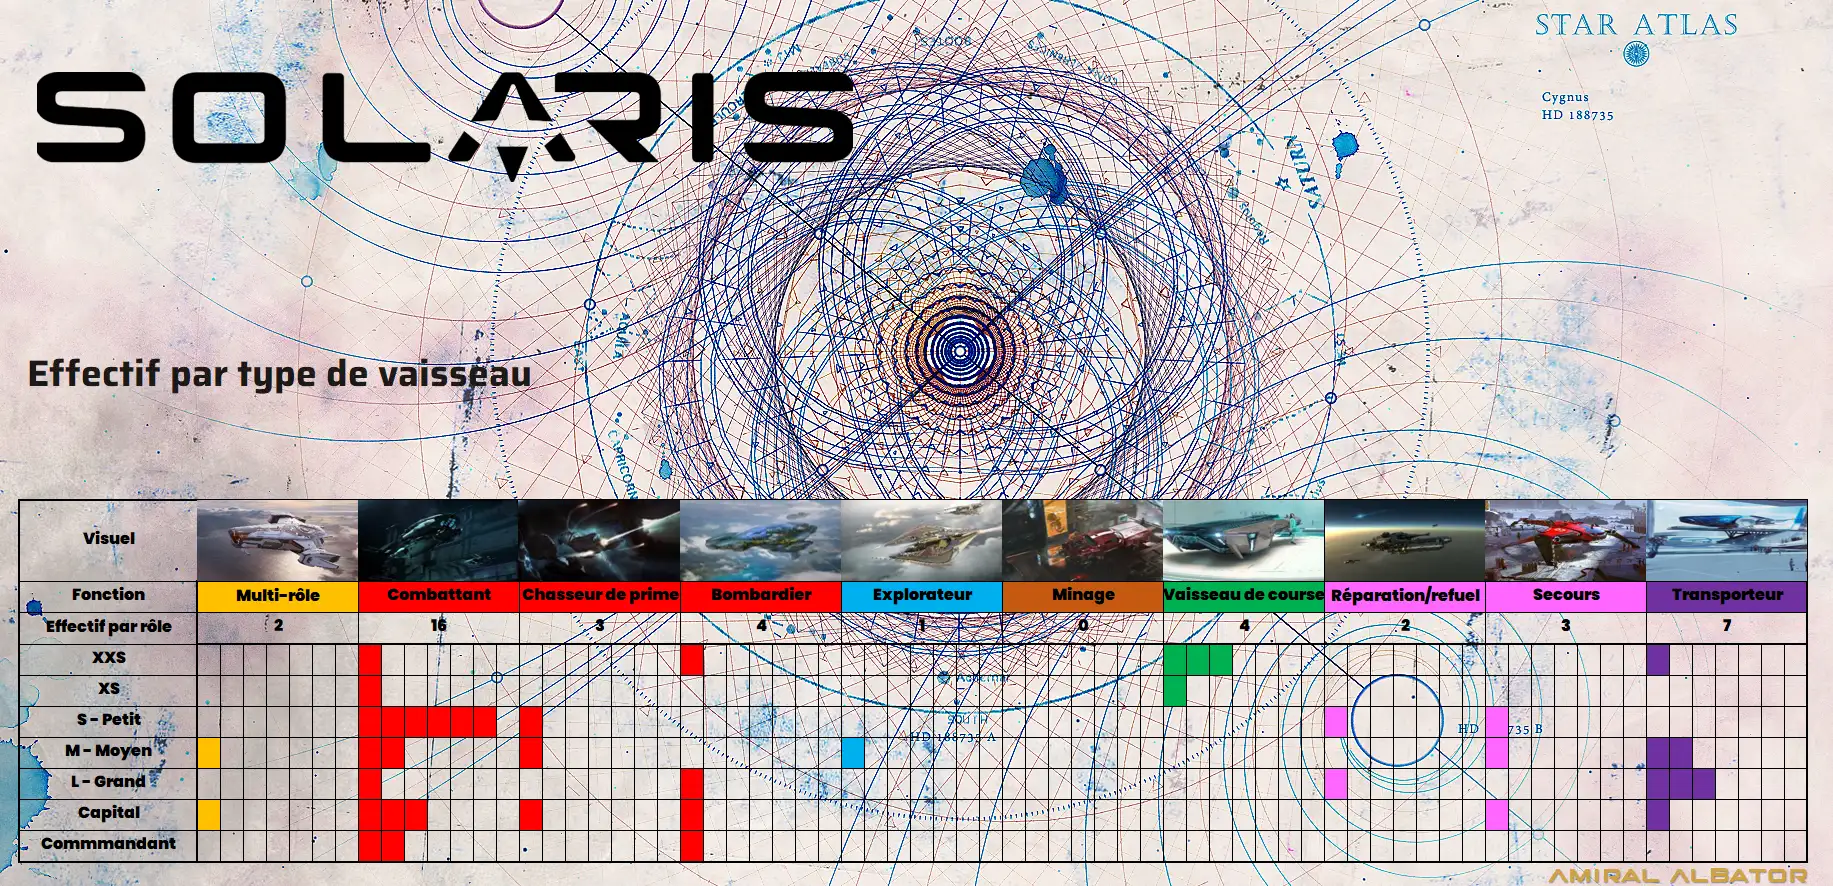
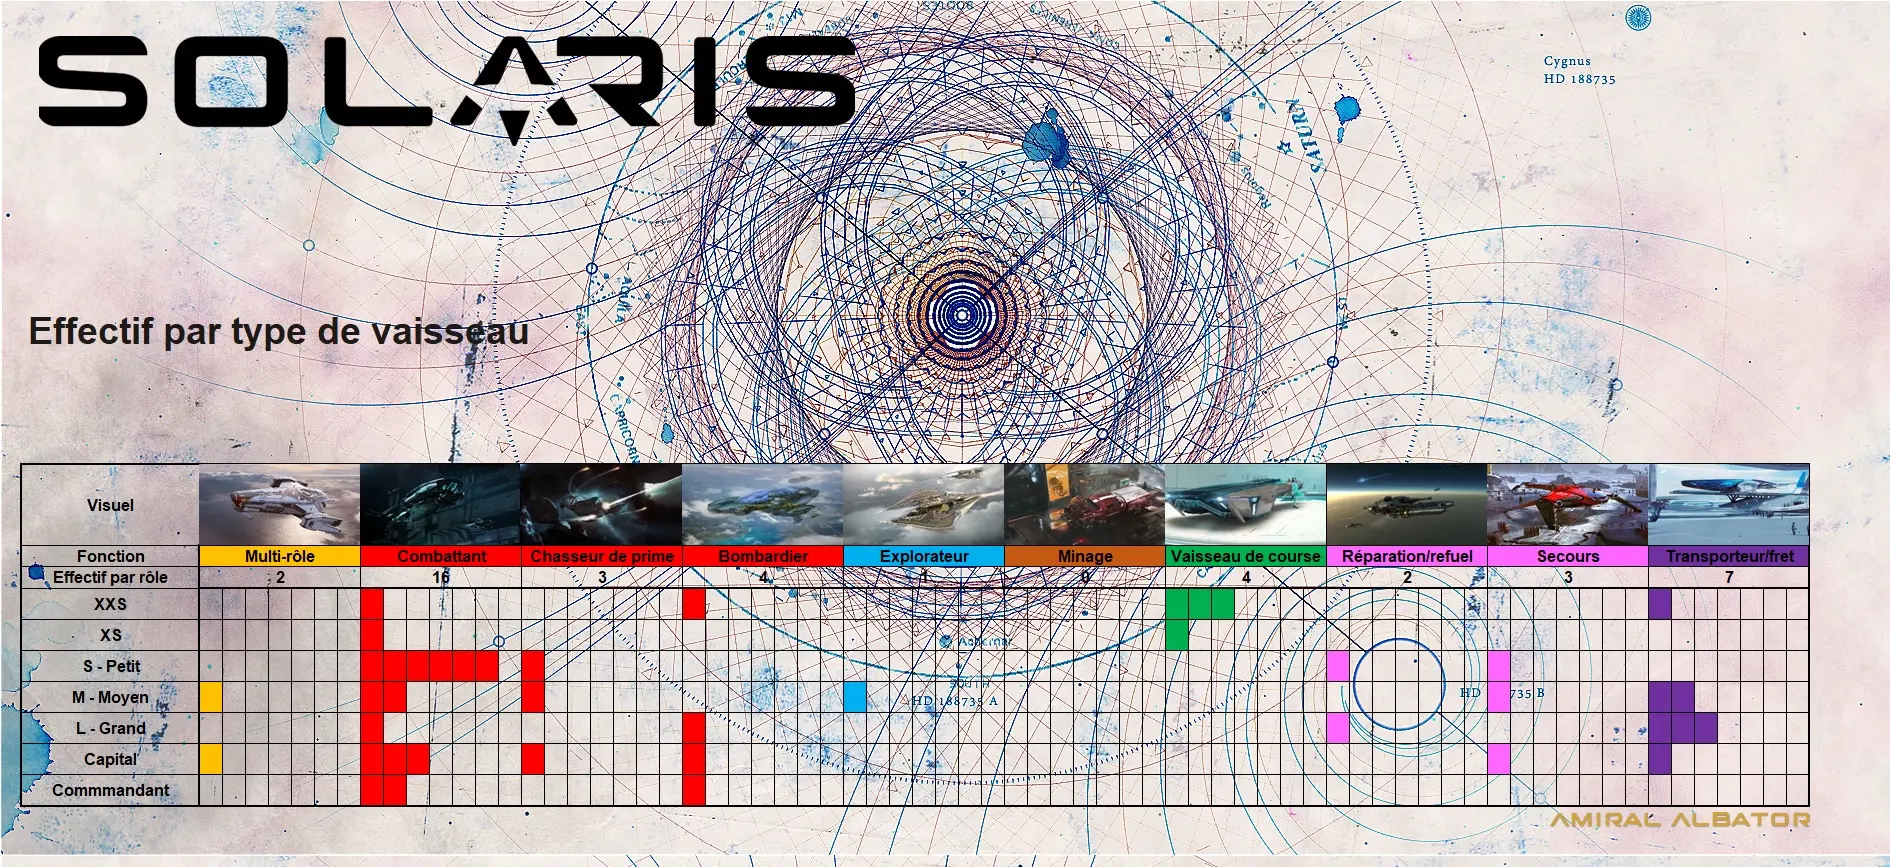
feat: update infos images + add thumbnails

diff --git a/src/pages/tools/kiosque/index.tsx b/src/pages/tools/kiosque/index.tsx
@@ -11,6 +11,15 @@ import Page from '../../../layout/Page';
 import { Core } from '../../../utils/data/Core';
 import { Infographics } from '../../../utils/data/Infographics';
 
+interface Info {
+  title: string;
+  anchor: string;
+  cardTitle?: Array<string>;
+  thumbnails: any;
+  webp: Array<string>;
+  jpg: Array<string>;
+}
+
 const DownloadLink = ({ url, ext }) => (
   <div className="flex items-center duration-200 ease-in-out hover:translate-x-1">
     <BiDownArrow className="mr-4 -rotate-90" />
@@ -37,7 +46,7 @@ const Tools = () => {
               <h2 className="font-title text-3xl font-bold text-secondary-500 md:text-4xl lg:text-5xl">
                 Infographies
               </h2>
-              {Infographics.map((info, index) => (
+              {Infographics.map((info: Info, index) => (
                 <div
                   className="flex w-full flex-col items-start justify-center"
                   key={info.title}
@@ -67,7 +76,7 @@ const Tools = () => {
                                 onClick={openPortal}
                               >
                                 <Image
-                                  src={item}
+                                  src={info.thumbnails[itemIndex]}
                                   alt={info.title}
                                   className="object-cover object-top duration-300 ease-in-out group-hover:scale-105"
                                   width={400}
@@ -80,7 +89,7 @@ const Tools = () => {
                                     <Image
                                       src={item}
                                       alt={info.title}
-                                      width={1170}
+                                      width={1000}
                                       height={600}
                                       className="flex justify-center rounded-xl bg-stone-900/50 object-cover shadow-xl"
                                       placeholder="blur"
@@ -100,7 +109,7 @@ const Tools = () => {
                             </h4>
                           )}
                           <DownloadLink url={info.webp[itemIndex]} ext="webp" />
-                          <DownloadLink url={info.png[itemIndex]} ext="png" />
+                          <DownloadLink url={info.jpg[itemIndex]} ext="jpg" />
                         </div>
                       </div>
                     ))}

diff --git a/src/utils/data/Infographics.tsx b/src/utils/data/Infographics.tsx
@@ -3,17 +3,22 @@ export const Infographics = [
     title: 'Rôle vaisseaux',
     anchor: 'ships-roles',
     cardTitle: ['Partie 1', 'Partie 2'],
+    thumbnails: [
+      '/assets/infos/thumbnails/ships_roles.webp',
+      '/assets/infos/thumbnails/ships_roles_2.webp',
+    ],
     webp: [
       '/assets/infos/ships_roles.webp',
       '/assets/infos/ships_roles_2.webp',
     ],
-    png: ['/assets/infos/ships_roles.png', '/assets/infos/ships_roles_2.png'],
+    jpg: ['/assets/infos/ships_roles.jpg', '/assets/infos/ships_roles_2.jpg'],
   },
   {
     title: 'Effectifs par rôle',
     anchor: 'ships-workforce',
+    thumbnails: ['/assets/infos/thumbnails/ships_workforce.webp'],
     webp: ['/assets/infos/ships_workforce.webp'],
-    png: ['/assets/infos/ships_workforce.png'],
+    jpg: ['/assets/infos/ships_workforce.jpg'],
   },
   {
     title: 'Modules vaisseaux',
@@ -25,6 +30,13 @@ export const Infographics = [
       'Taille L',
       'Taille CAP & COM',
     ],
+    thumbnails: [
+      '/assets/infos/thumbnails/ships_mods_XXS_XS.webp',
+      '/assets/infos/thumbnails/ships_mods_S.webp',
+      '/assets/infos/thumbnails/ships_mods_M.webp',
+      '/assets/infos/thumbnails/ships_mods_L.webp',
+      '/assets/infos/thumbnails/ships_mods_CAP_COM.webp',
+    ],
     webp: [
       '/assets/infos/ships_mods_XXS_XS.webp',
       '/assets/infos/ships_mods_S.webp',
@@ -32,12 +44,12 @@ export const Infographics = [
       '/assets/infos/ships_mods_L.webp',
       '/assets/infos/ships_mods_CAP_COM.webp',
     ],
-    png: [
-      '/assets/infos/ships_mods_XXS_XS.png',
-      '/assets/infos/ships_mods_S.png',
-      '/assets/infos/ships_mods_M.png',
-      '/assets/infos/ships_mods_L.png',
-      '/assets/infos/ships_mods_CAP_COM.png',
+    jpg: [
+      '/assets/infos/ships_mods_XXS_XS.jpg',
+      '/assets/infos/ships_mods_S.jpg',
+      '/assets/infos/ships_mods_M.jpg',
+      '/assets/infos/ships_mods_L.jpg',
+      '/assets/infos/ships_mods_CAP_COM.jpg',
     ],
   },
 ];

diff --git a/README.md b/README.md
@@ -9,7 +9,7 @@
 - Daisy UI
 - Framer Motion
 - React-Table
-
+- Swiper
 ## Artworks
 
 - Stable Diffusion
